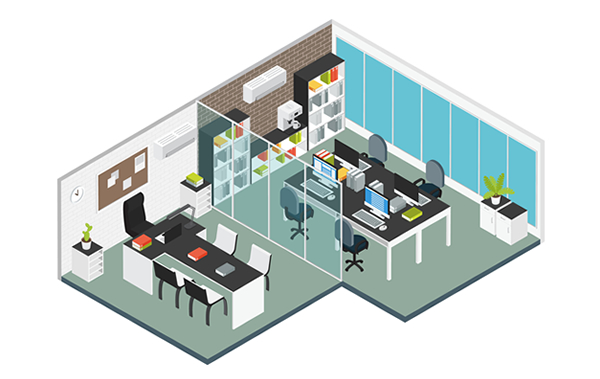
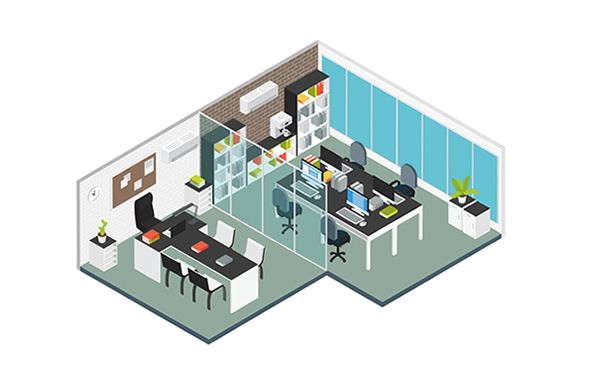
Ajustes varios
Actualizacion equipo banco de proyectos
Medidas imagenes isometricas
Ancho del header

Changed region(s): [[0.09, 0.058, 0.93, 0.9578]]

diff --git a/bancoproyectos.html b/bancoproyectos.html
@@ -62,7 +62,7 @@
   </nav>
 
   <!-- Header -->
-  <header class="bg-success py-5 mb-5">
+  <header class="bg-success py-1 mb-5">
     <div class="container h-100">
       <div class="row h-100 align-items-center">
         <div class="col-lg-2">
@@ -80,21 +80,20 @@
   <!-- Page Content -->
   <div class="container">
 
-    <div class="row">
+    <!--<div class="row">
       <div class="col-md-5 mb-5">
         <center><img src="img/banco_proyectos.png" alt="" class = "img-responsive" width="100%"></center>
       </div>
       <div class="col-md-7 mb-7">
         <center><img src="img/proyecta_agendate.png" alt="" class = "img-responsive" width="100%"></center>
       </div>
-    </div>
+    </div>-->
 
 
     <div class="row">
 
       <!-- QUIENES SOMOS -->
       <div class="col-md-12 mb-12" id="quienessomos">
-        <br><br><br><br>
         <h2>Quienes somos</h2>
         <hr>
         DOSQUEBRADAS PROYECTA es una estrategia liderada por la Secretaría de Planeación de Dosquebradas y en la que se encuentran invitadas las personas relacionadas con el ciclo de proyecto de inversión pública.
@@ -161,7 +160,7 @@
 
         <address>
           <strong>Daniel Morales Zapata</strong>
-          <br>Planeación	- Facilitador
+          <br>Planeación, Obras Publicas, Movilidad, Hacienda	- Facilitador
           <br>
           <abbr title="Email">Email</abbr>
           <a href="mailto:#">damoraz@gmail.com</a>
@@ -199,6 +198,7 @@
 
         <br>
 
+        <!--
         <address>
           <strong>Julián Orlando Ramírez Arredondo</strong>
           <br>Asuntos Administrativos, Direccion TIC, Prensa, Desarrollo Economico	- Facilitador
@@ -207,7 +207,7 @@
           <a href="mailto:#">joramirez@dosquebradas.gov.co</a>
         </address>
 
-        <br>
+        <br>-->
 
         <address>
           <strong>Jorge Andrés Colorado</strong>

diff --git a/index.html b/index.html
@@ -50,7 +50,7 @@
   </nav>
 
   <!-- Header -->
-  <header class="bg-success py-5 mb-5">
+  <header class="bg-success py-1 mb-5">
     <div class="container h-100">
       <div class="row h-100 align-items-center">
         <div class="col-lg-2">
@@ -71,7 +71,7 @@
     <div class="row">
       <div class="col-md-4 mb-5">
         <div class="card h-100">
-          <img class="card-img-top" src="img/uno.jpg" alt="">
+          <img class="card-img-top" src="img/uno.jpg" alt="" width="40">
           <div class="card-body">
             <h4 class="card-title">Asuntos Socioeconómicos</h4>
             <p class="card-text"></p>
